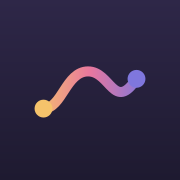
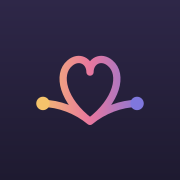
brand mark

Changed region(s): [[0.1667, 0.3056, 0.8333, 0.6944]]

diff --git a/src/components/BrandMark.tsx b/src/components/BrandMark.tsx
@@ -1,20 +1,27 @@
 import { useId } from "react";
 
-/** The Warm Story 2.0 "story thread" mark — same geometry as the app's utils/brandMark.ts. */
+/** The Warm Story 2.0 "story thread with a heart" mark — same geometry as the app's utils/brandMark.ts. */
 export function BrandMark({ className }: { className?: string }) {
   const gradientId = useId();
   return (
-    <svg viewBox="0 0 60 36" className={className} aria-hidden="true">
+    <svg viewBox="0 20 100 68" className={className} aria-hidden="true">
       <defs>
-        <linearGradient id={gradientId} x1="0" y1="0" x2="60" y2="0" gradientUnits="userSpaceOnUse">
+        <linearGradient id={gradientId} x1="0" y1="0" x2="100" y2="0" gradientUnits="userSpaceOnUse">
           <stop offset="0" stopColor="#F5C36B" />
           <stop offset="0.5" stopColor="#E8779E" />
           <stop offset="1" stopColor="#7F77DD" />
         </linearGradient>
       </defs>
-      <path d="M5 28C15 28 17 8 29 8S43 30 55 12" fill="none" stroke={`url(#${gradientId})`} strokeWidth="4" strokeLinecap="round" />
-      <circle cx="5" cy="28" r="3.6" fill="#F5C36B" />
-      <circle cx="55" cy="12" r="3.6" fill="#7F77DD" />
+      <path
+        d="M8 66C22 66 38 72 50 82C26 64 20 40 32 30C40 23 50 28 50 38C50 28 60 23 68 30C80 40 74 64 50 82C62 72 78 66 92 66"
+        fill="none"
+        stroke={`url(#${gradientId})`}
+        strokeWidth="6.5"
+        strokeLinecap="round"
+        strokeLinejoin="round"
+      />
+      <circle cx="8" cy="66" r="6" fill="#F5C36B" />
+      <circle cx="92" cy="66" r="6" fill="#7F77DD" />
     </svg>
   );
 }
@@ -22,7 +29,7 @@ export function BrandMark({ className }: { className?: string }) {
 export function BrandHeader() {
   return (
     <div className="flex items-center gap-2">
-      <BrandMark className="h-[26px] w-[43px]" />
+      <BrandMark className="h-[29px] w-[43px]" />
       <span className="font-display text-xl font-semibold text-ink">PovesteaNoastra</span>
     </div>
   );
